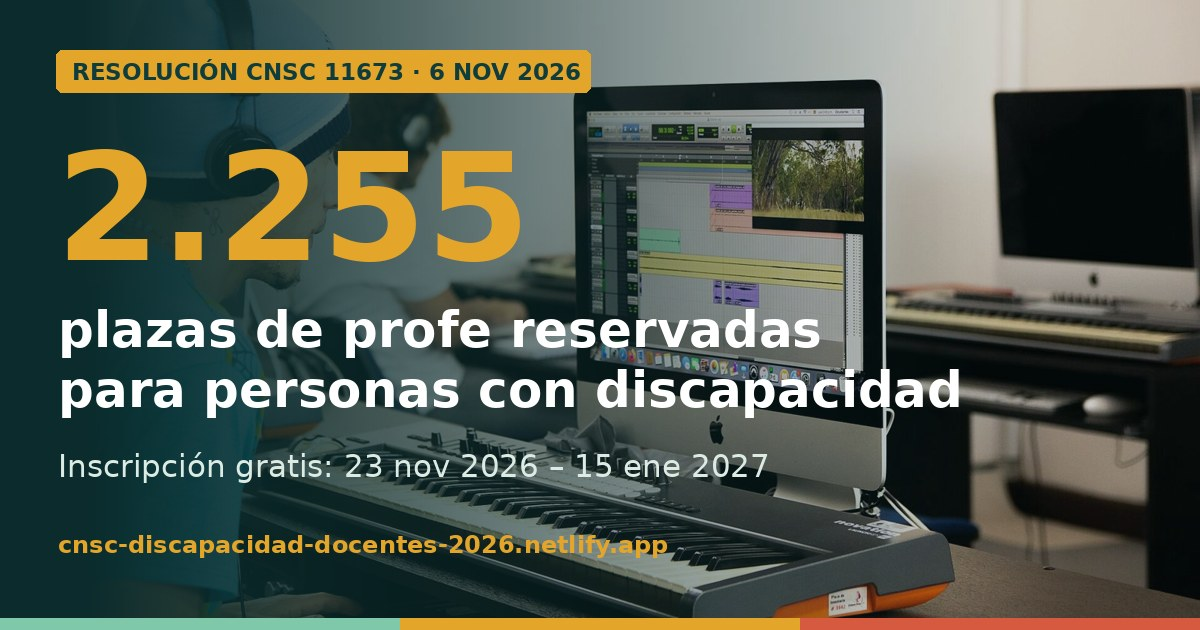
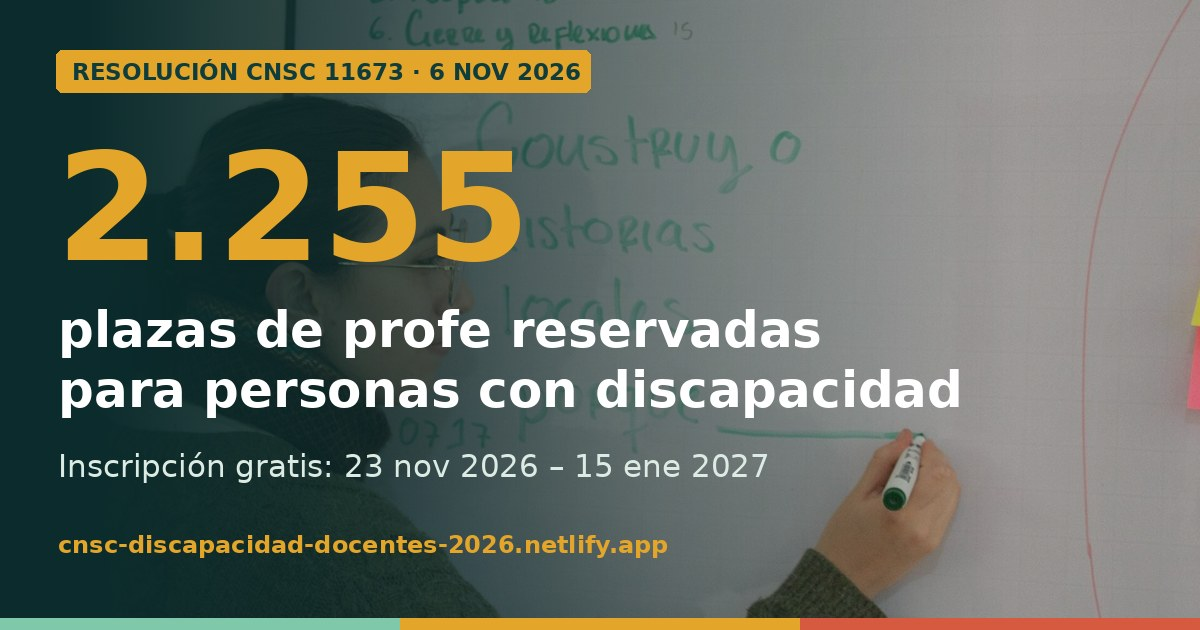
Fotos reordenadas (docente en el tablero de portada), vista previa con foto real, filtro de noticias más preciso
Claude-Session: https://claude.ai/code/session_01Qv96KTfUCS4sAqhARbSVd5

diff --git a/robot/robot.py b/robot/robot.py
@@ -25,7 +25,7 @@ QUERIES = [
     'CNSC "11673"',
     '"concurso docente" CNSC 2026',
 ]
-KEYS = re.compile(r'(docent|magisterio|cnsc|discapacidad|concurso)', re.I)
+KEYS = re.compile(r'(docent|magisterio|maestr|profesor|discapacidad)', re.I)
 
 def noticias():
     items, seen = [], set()
@@ -108,7 +108,7 @@ def fotos():
     from PIL import Image
     cred = []
     for c in cands:
-        if len(cred) >= 6: break
+        if len(cred) >= 5: break
         try:
             im = Image.open(io.BytesIO(get(c["thumb"]))).convert("RGB")
         except Exception as e:
